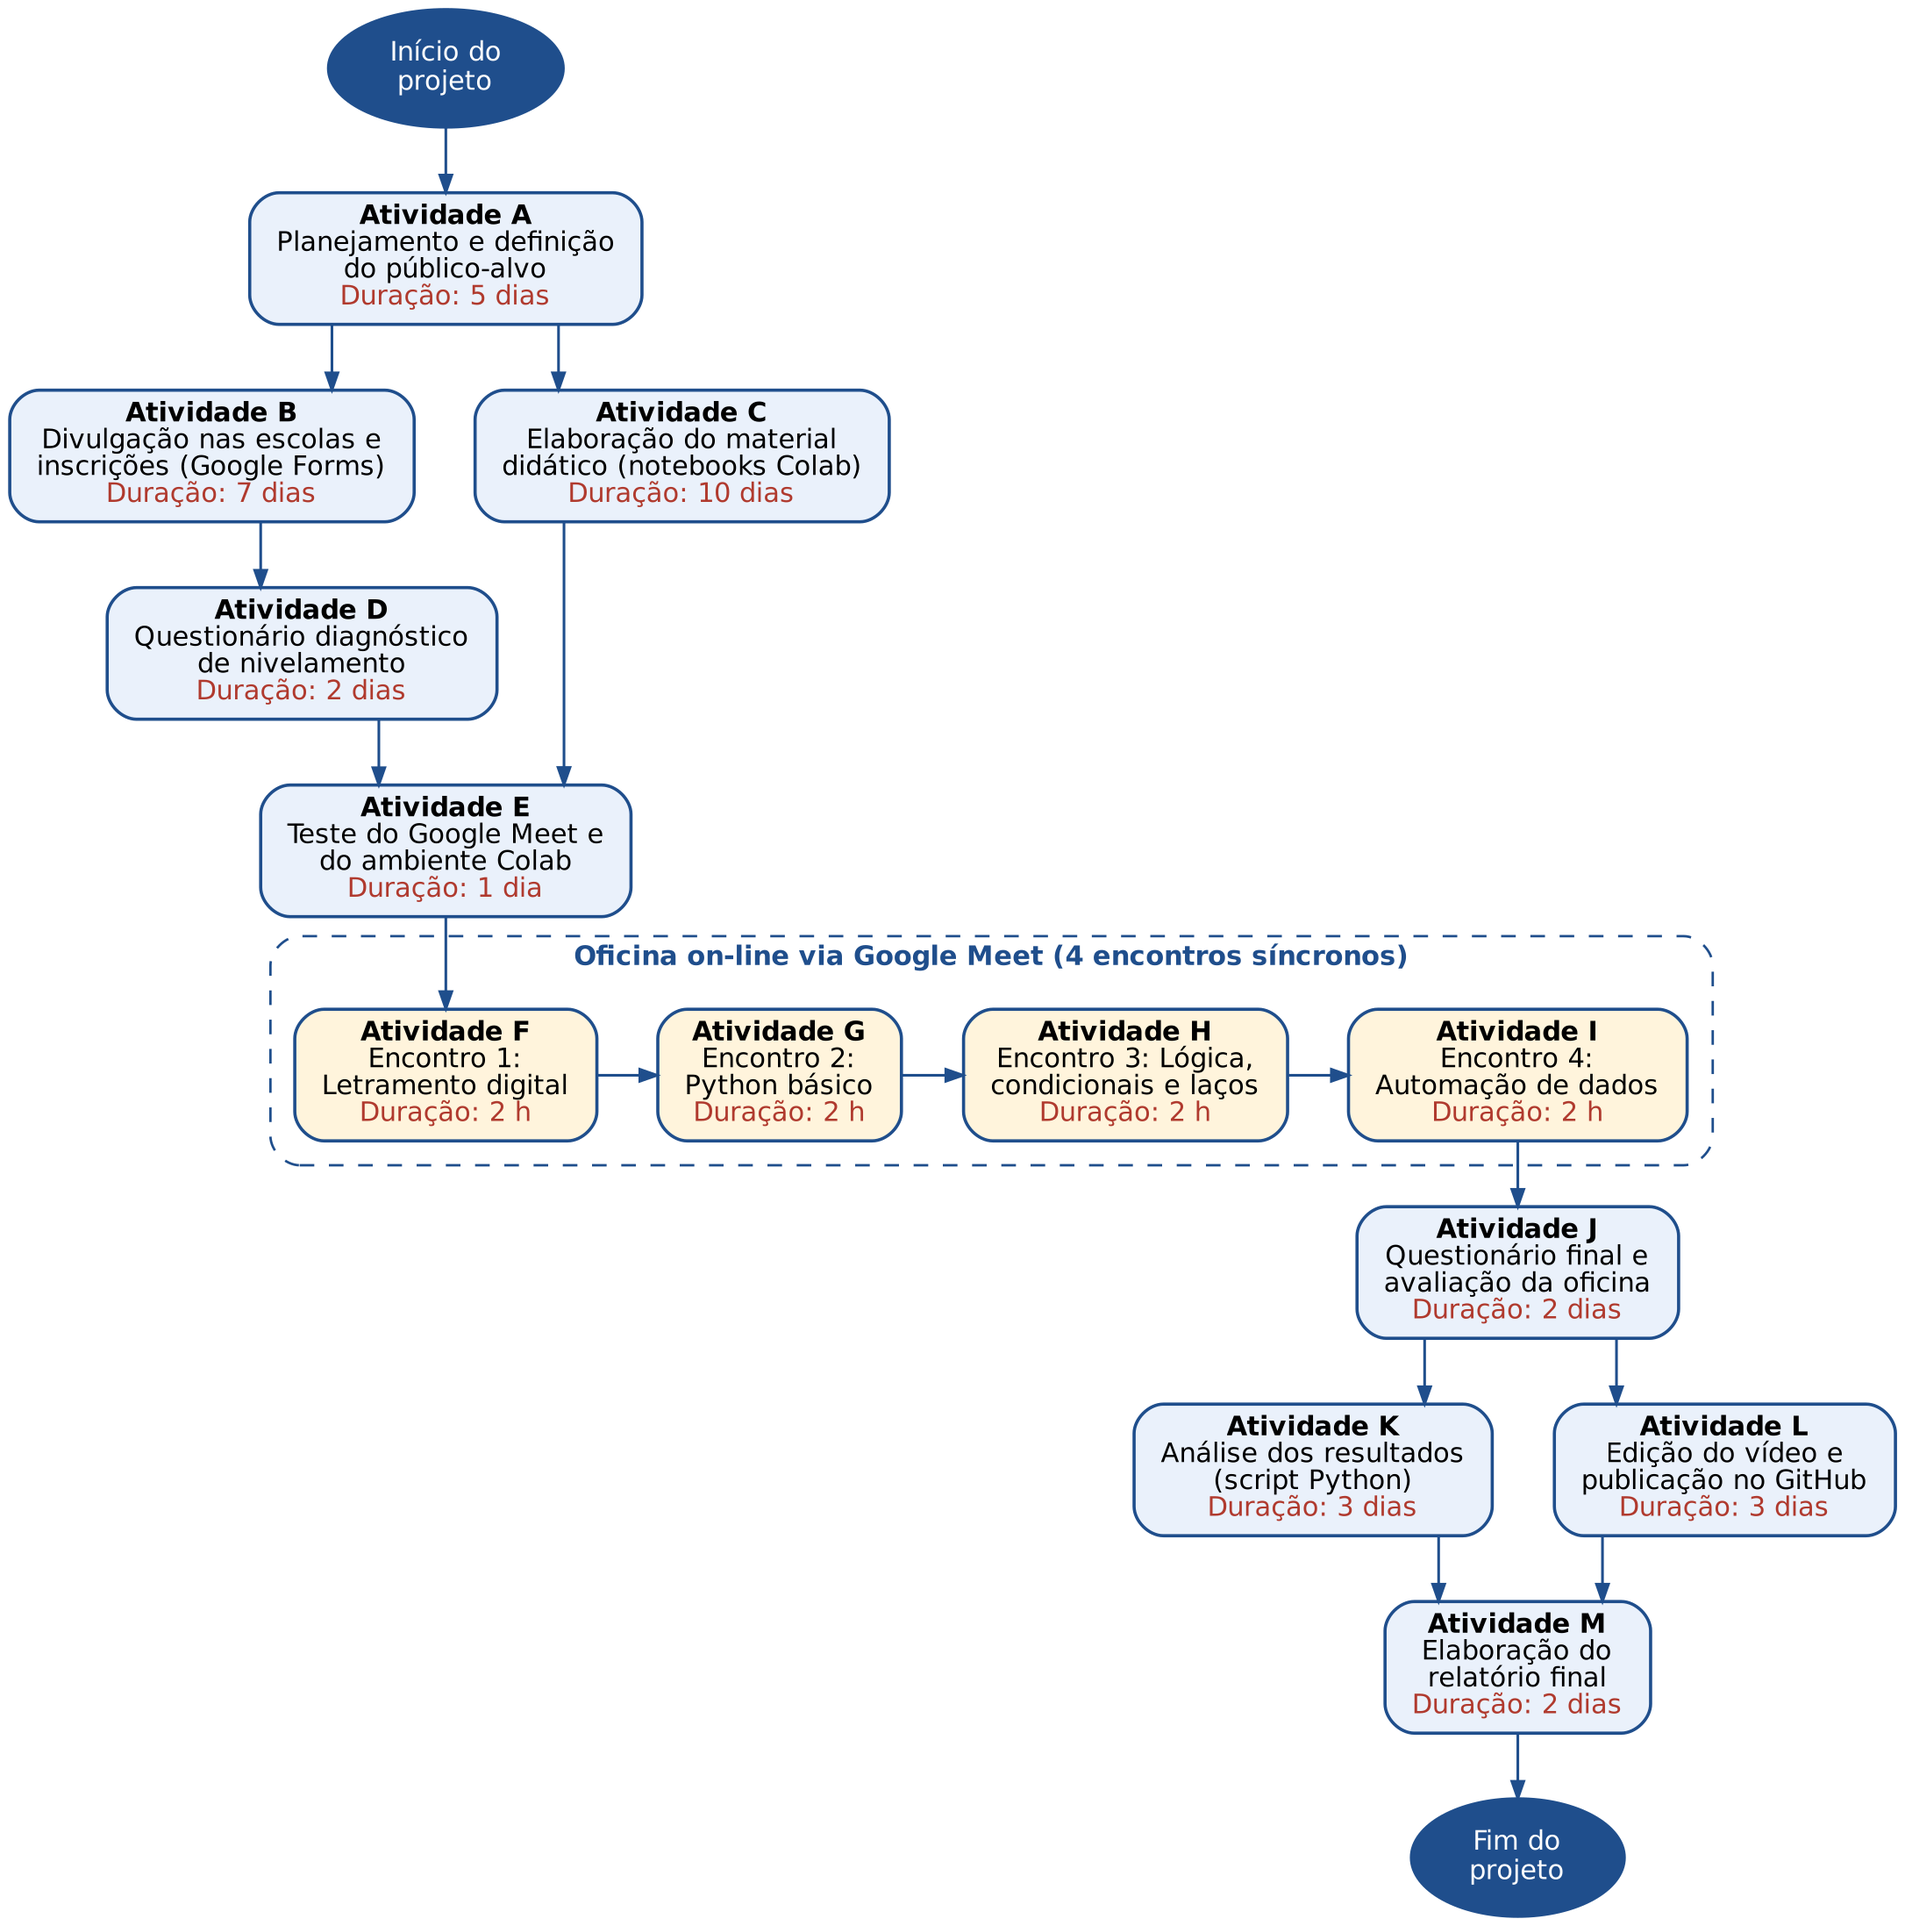
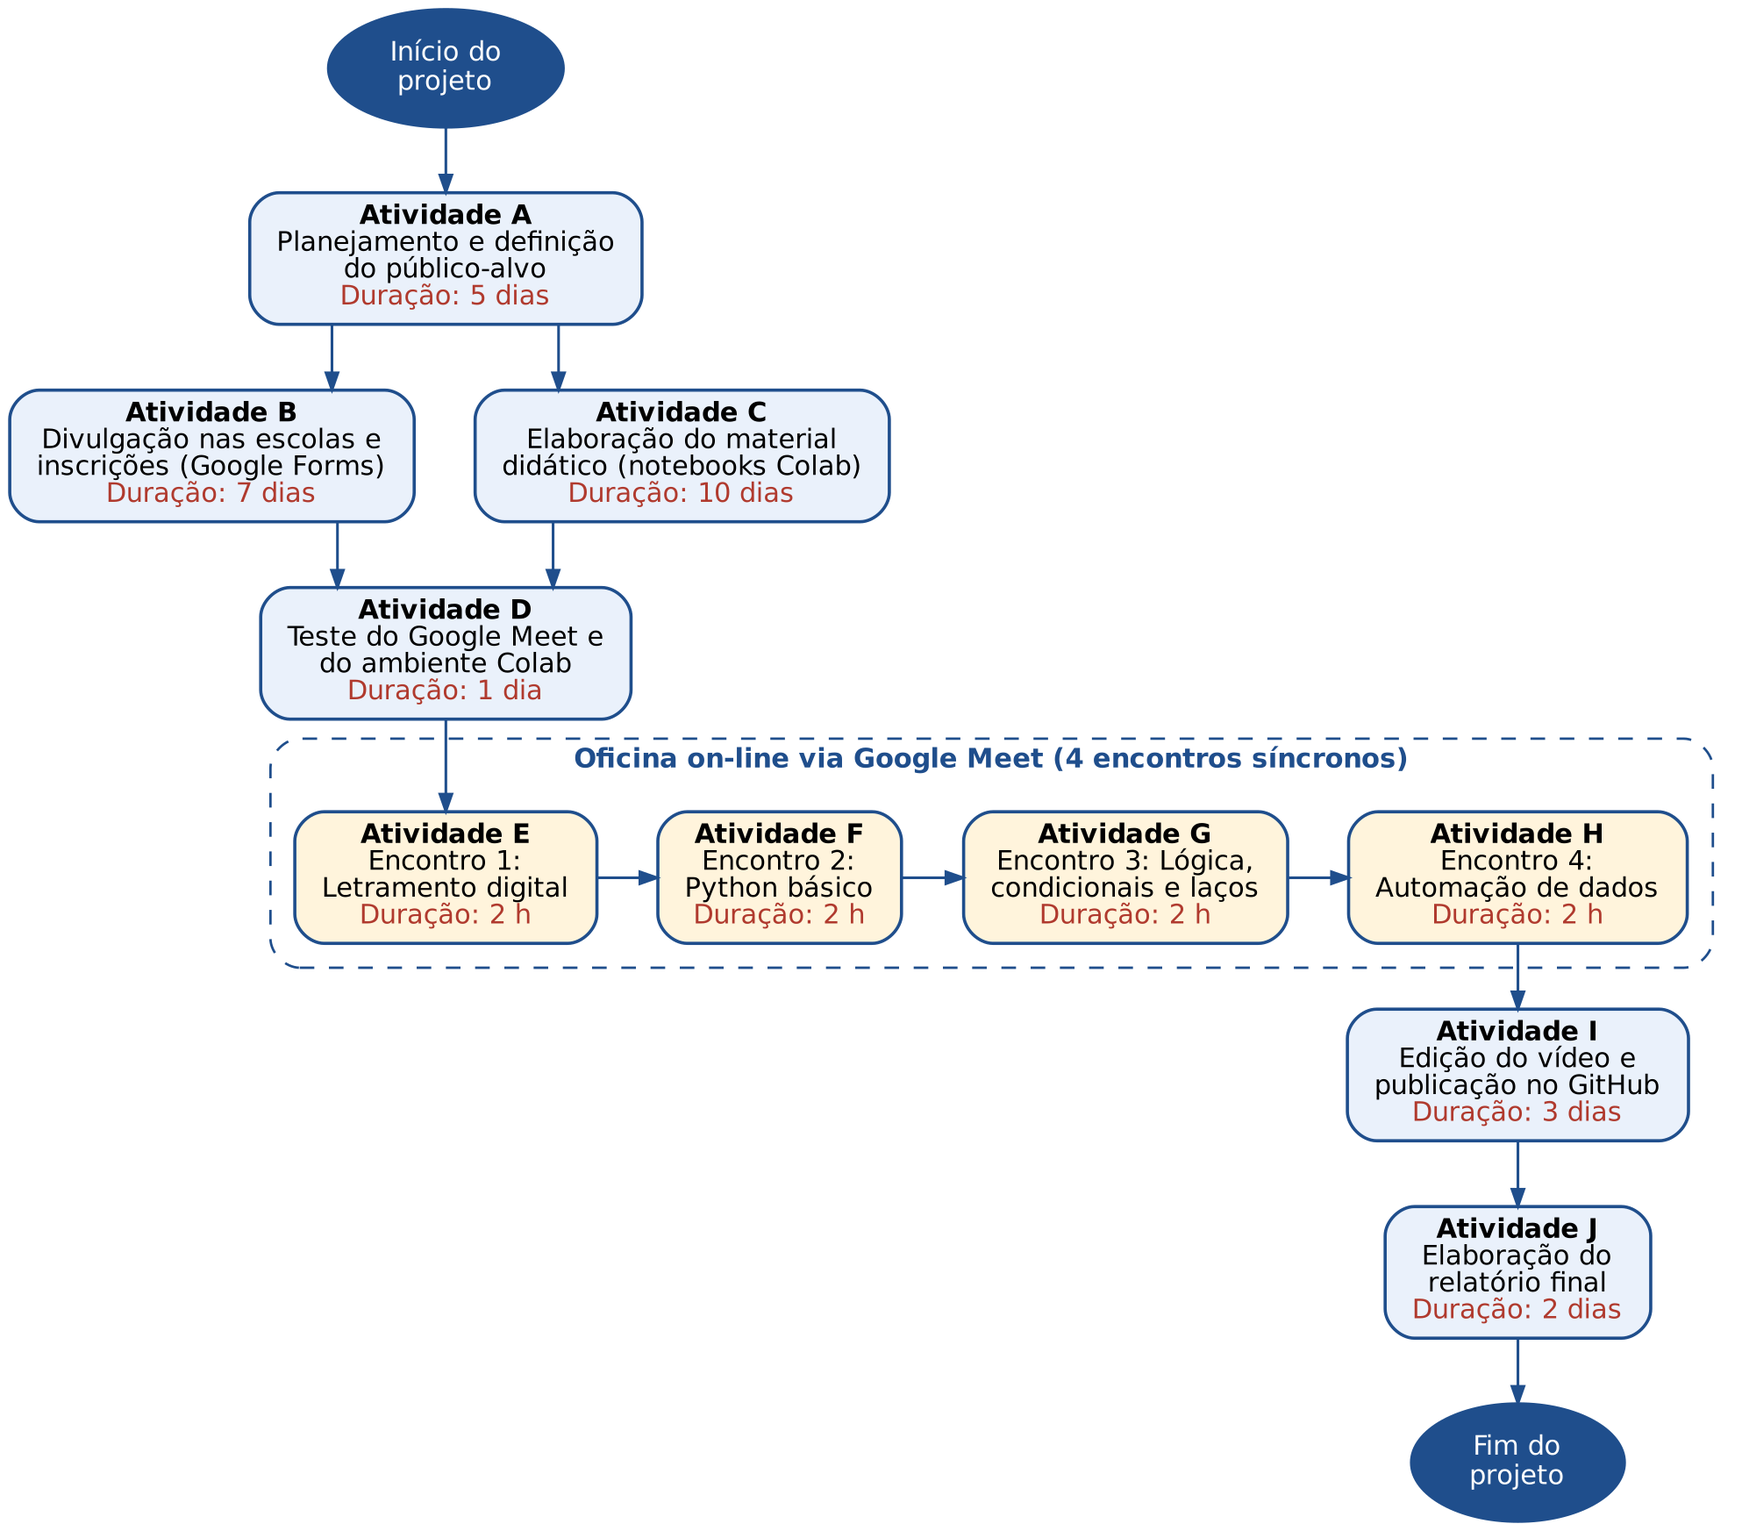
Remove questionários e atualiza metodologia

Changed region(s): [[0.0, 0.0, 0.999, 1.0]]

diff --git a/README.md b/README.md
@@ -11,7 +11,7 @@ Projeto de **Atividade Extensionista II: Tecnologia Aplicada à Inclusão Digita
 
 ## Objetivos
 
-- Diagnosticar o conhecimento prévio dos participantes em informática, navegação na web e lógica, com um questionário de nivelamento.
+- Acompanhar as dificuldades dos participantes com informática, navegação na web e lógica, adaptando o ritmo dos encontros.
 - Desenvolver material didático prático em Python, usando notebooks do Google Colab.
 - Capacitar os estudantes na resolução de problemas lógicos e na automação básica de dados, promovendo a inclusão digital e o interesse pelas áreas STEM.
 
@@ -26,11 +26,6 @@ Projeto de **Atividade Extensionista II: Tecnologia Aplicada à Inclusão Digita
 │   └── 04_automacao_dados.ipynb
 ├── exercicios/
 │   └── gabarito.py                   # soluções comentadas dos exercícios
-├── avaliacao/
-│   ├── questionario_diagnostico.md   # aplicado antes da oficina (Google Forms)
-│   ├── questionario_final.md         # aplicado depois da oficina (Google Forms)
-│   ├── analise_questionarios.py      # compara antes x depois e gera gráficos
-│   └── exemplo_ficticio/             # dados FICTÍCIOS só para testar o script
 ├── metodologia/
 │   ├── diagrama_metodologia.dot      # fonte do diagrama (Graphviz)
 │   └── diagrama_metodologia.png
@@ -55,10 +50,10 @@ Projeto de **Atividade Extensionista II: Tecnologia Aplicada à Inclusão Digita
 
 **Estudantes:** recebem no chat do Meet o link do notebook de cada encontro, abrem no Google Colab e salvam uma cópia no próprio Drive. Não precisam instalar nada.
 
-**Avaliação:** antes do primeiro e depois do último encontro, os estudantes respondem aos questionários de `avaliacao/` pelo Google Forms. O script `avaliacao/analise_questionarios.py` compara as respostas de cada participante (autoavaliação e questões de conhecimento) e gera os indicadores e gráficos apresentados no relatório final. Os arquivos em `avaliacao/exemplo_ficticio/` contêm dados inventados, usados apenas para testar o script.
+**Gabarito:** as soluções comentadas dos exercícios estão em `exercicios/gabarito.py`.
 
 ## Privacidade
-Os participantes são identificados apenas por um código escolhido por eles; nenhum nome, telefone ou e-mail é publicado neste repositório.
+Nenhum nome, telefone ou e-mail dos participantes é publicado neste repositório.
 
 ## Licença
 [MIT](LICENSE)
